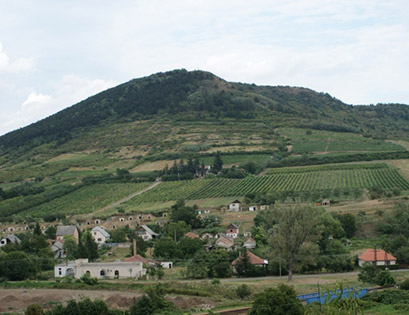
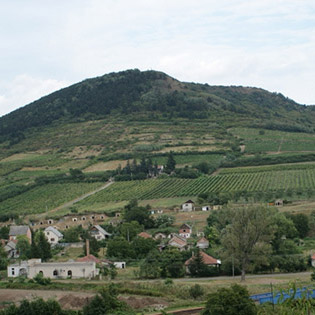
Circle effect images optimized, invisible element added in order to fulfill sticky menu requirements.

diff --git a/tv.html b/tv.html
@@ -19,7 +19,7 @@
                     if ( typeof selected_element_id != 'undefined' ){
 					
                         // sufix check
-                        if( selected_element_id.endsWith("wmi") || selected_element_id.endsWith("smi") || selected_element_id.endsWith("vmi")){
+                        if( selected_element_id.endsWith("wmi") || selected_element_id.endsWith("vmi") || selected_element_id.endsWith("smi") || selected_element_id.endsWith("zmi")){
                             
                             var go_to_section;
                             
@@ -35,17 +35,29 @@
                     }
                 });
 				
-				var nav = $('#sticky_menu');
-				var sticky_menu_actual_offset = nav.offset().top;
+                var nav = $('#sticky_menu');
+                var nav_hidden = $('#sticky_menu_hidden');
+                
+                var sticky_menu_actual_offset = nav.offset().top;
 				
-				$(window).scroll(function () {
+                $(window).scroll(function () {
 
-					if ($(this).scrollTop() > sticky_menu_actual_offset) {
-						nav.addClass("f-nav");
-					} else {
-						nav.removeClass("f-nav");
-					}
-				});
+                    if ($(this).scrollTop() > sticky_menu_actual_offset ) {
+                        
+                        // change style of a sticky menu
+                        nav.addClass("f-nav");
+                        
+                        // add invisible object
+                        nav_hidden.css( "display", "block" );
+                    } else {
+                        
+                        // set the style back 
+                        nav.removeClass("f-nav");
+                        
+                        // remove the object
+                        nav_hidden.css( "display", "none" );
+                    }
+                });
                 
                 
                 String.prototype.endsWith = function(str) {
@@ -116,7 +128,7 @@
                     <div id="aims_and_realizations_smi" class="sticky_menu_item">
                         <div class="sticky_menu_item_text">Ciele <br /> projektu</div>
                     </div>
-                    <div id="aims_and_realizations_smi" class="sticky_menu_item">
+                    <div id="aims_and_realizations_zmi" class="sticky_menu_item">
                         <div class="sticky_menu_item_text">Aktivity <br /> projektu</div>
                     </div>
                     <div id="sticky_menu_logo_item">
@@ -141,6 +153,7 @@
                     </div>
                 </div>
             </div>
+            <div id="sticky_menu_hidden" class="sticky_menu_hidden_class"></div>
             <!--end of menu-->
 
             <!-- content -->

diff --git a/css/stylesheet.css b/css/stylesheet.css
@@ -29,7 +29,7 @@ html, body {
 }
 
 .page_section_wrapper {
-    padding-top: 5%;
+    padding-top: 6.5%;
     padding-left: 12%;
 }
 
@@ -116,8 +116,22 @@ html, body {
 
     width: 100%;
     height: 80px;
+    
+    /*visibility: visible;*/
 
     /* used instead of classic rgb() and opacity */
+    background-color: rgba(143, 72, 6, 0.65);
+}
+
+.sticky_menu_hidden_class {
+
+    position: relative;
+
+    width: 100%;
+    height: 80px;
+
+    visibility: hidden;
+
     background-color: rgba(143, 72, 6, 0.65);
 }
 
@@ -531,7 +545,7 @@ ul.dash_circle {
 
 /* hack - selecting the second .section_title_bl heading */ 
 .section_title_bl:nth-of-type(2n) {
-    margin-top: 40%;
+    margin-top: 31%;
 }
 
 /*dynamic menu items text*/
